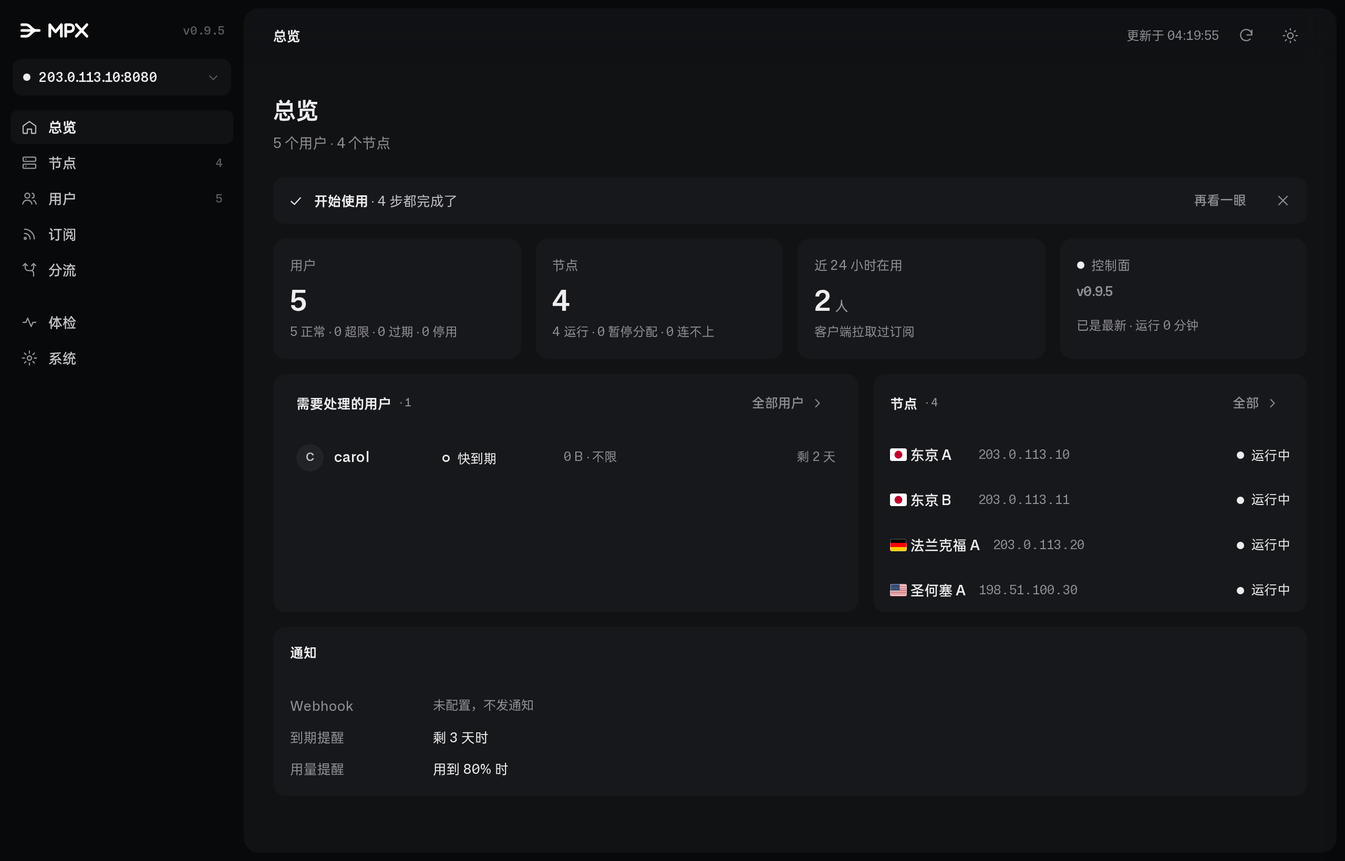
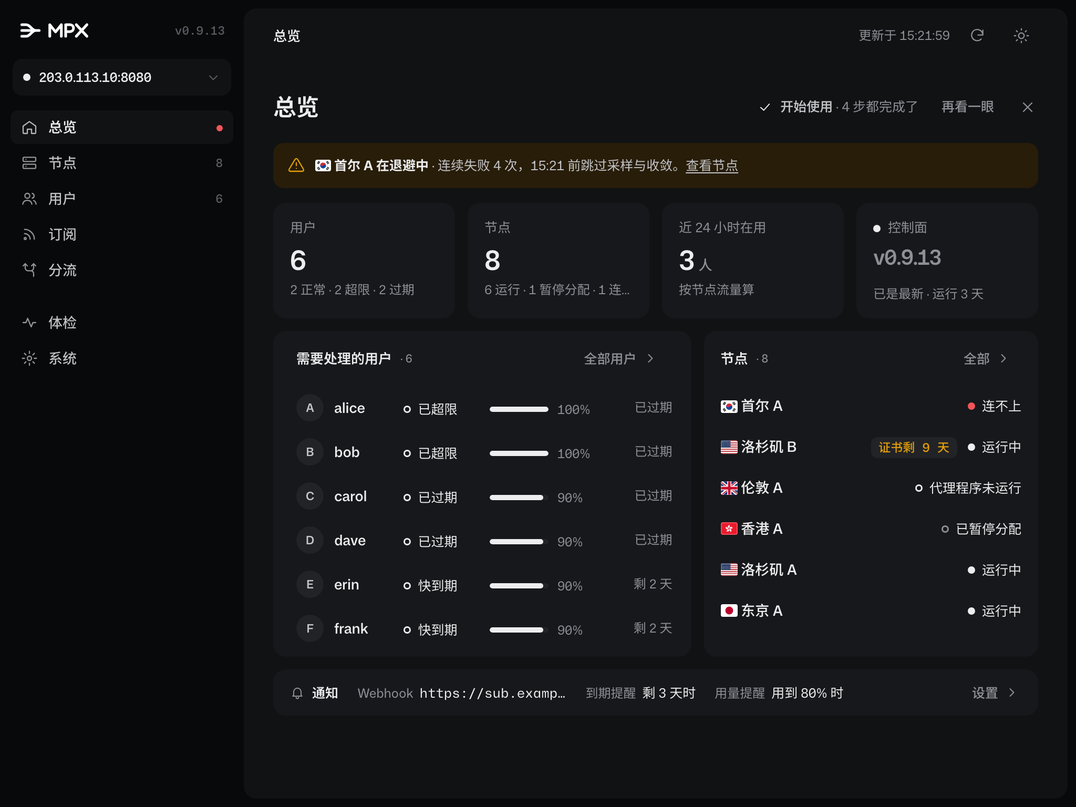
让总览适配最小桌面窗口，按平台显示滚动条并默认浅色

diff --git a/internal/ui/assets/app.js b/internal/ui/assets/app.js
@@ -500,19 +500,36 @@ function startSteps(d) {
       go: u ? H`<a class="btn sm pri" href="${userLink(u.username)}">${ic("qr")}发给 ${u.username}</a>` : "" },
   ];
 }
-function startBlock(S, done, allDone) {
-  if (allDone && clGet("hide")) return "";
+const OV_MAX = 6;
+const ovNodeRank = x => !x.status ? 3 : !x.status.reachable ? 0 : (x.status.certificates || []).some(c => c.not_after && c.days_left <= 14) ? 1 : !x.status.active ? 2 : x.draining ? 4 : 5;
+// 统计格副行只列不为 0 的类别,第一项(正常 / 运行)总是列出。
+// 总览里运行时长只到最大的单位(3 天 / 5 小时 / 12 分钟),精确值在悬停提示里。
+const ovDur = v => { v = Math.floor(+v || 0); const d = Math.floor(v / 86400), h = Math.floor(v / 3600); return d ? `${d} 天` : h ? `${h} 小时` : `${Math.floor(v / 60)} 分钟`; };
+const ovParts = parts => parts.filter(([n], i) => i === 0 || n > 0).map(([n, t]) => `${n} ${t}`).join(" · ");
+// 用量:条 + 百分比,完整数字放在悬停提示里。
+function ovUse(u) {
+  if (!u.data_limit) return H`<span class="ov-use sub">${fmtBytes(u.used_traffic)} · 不限</span>`;
+  const p = pct(u), cls = p >= 100 ? "bad" : p >= 80 ? "warn" : "";
+  return H`<span class="ov-use" title="${fmtBytes(u.used_traffic)} / ${fmtBytes(u.data_limit)}"><span class="bar"><i class="${cls}" style="width:${p.toFixed(1)}%"></i></span><span class="sub">${Math.round(p)}%</span></span>`;
+}
+function startList(S, done, allDone) {
   const cur = S.findIndex(x => !x.done);
   const item = (x, i) => H`<li class="ck ${x.done ? "done" : i === cur ? "cur" : ""}"><span class="ck-i">${x.done ? ic("check") : String(i + 1)}</span>
     <div class="ck-t"><b>${x.t}</b><span class="sub">${x.done ? x.dDone : x.dTodo}</span></div>
     <div class="ck-a">${!x.done && i === cur ? H`${x.skip ? H`<button class="btn sm" data-act="cl-skip">先用 IP</button>` : ""}${x.go}` : ""}</div></li>`;
   const optional = H`<li class="ck opt"><span class="ck-i">${ic("plus")}</span><div class="ck-t"><b>可选：让它更好用</b><span class="sub">随时都能做，不影响上面的进度</span></div>
     <div class="ck-a">${PAGES.nodes ? H`<a class="btn sm" href="#nodes">${ic("nodes")}再加一个节点</a>` : ""}${PAGES.rules ? H`<a class="btn sm" href="#rules">${ic("split")}调整分流</a>` : ""}${PAGES.system ? H`<a class="btn sm" href="#system">${ic("bell")}打开到期提醒</a>` : ""}</div></li>`;
-  const list = H`<section class="card cl" id="start"><div class="cl-h"><div><h3>开始使用</h3><p class="sub">${done === 0 ? "四步把第一条订阅发出去，大约 5 分钟" : allDone ? "4 步都完成了" : `还差 ${S.length - done} 步`}</p></div><span class="sp" style="flex:1"></span><span class="cl-n"><b>${done}</b> / ${S.length}</span></div>
+  return H`<section class="card cl" id="start"><div class="cl-h"><div><h3>开始使用</h3><p class="sub">${done === 0 ? "四步把第一条订阅发出去，大约 5 分钟" : allDone ? "4 步都完成了" : `还差 ${S.length - done} 步`}</p></div><span class="sp" style="flex:1"></span><span class="cl-n"><b>${done}</b> / ${S.length}</span></div>
     <div class="cl-bar">${S.map(x => H`<i class="${x.done ? "on" : ""}"></i>`)}</div>
     <ol class="cks">${S.map(item)}${optional}</ol></section>`;
-  if (!allDone) return H`<div class="mb">${list}</div>`;
-  return H`<div class="cl-done" id="start-done">${ic("check")}<span><b>开始使用</b> · 4 步都完成了</span><span class="sp" style="flex:1"></span><button type="button" class="btn sm ghost" data-act="cl-open">${CL_OPEN ? "收起" : "再看一眼"}</button><button type="button" class="ib" title="不再显示" aria-label="不再显示" data-act="cl-hide">${ic("x")}</button></div>${CL_OPEN ? H`<div class="mb">${list}</div>` : ""}`;
+}
+function startBlock(S, done, allDone) {
+  if (!allDone) return H`<div class="mb">${startList(S, done, allDone)}</div>`;
+  return CL_OPEN && !clGet("hide") ? H`<div class="mb">${startList(S, done, allDone)}</div>` : "";
+}
+function ovDoneChip() {
+  if (clGet("hide")) return "";
+  return H`<div class="ov-done" id="start-done">${ic("check")}<span><b>开始使用</b> · 4 步都完成了</span><button type="button" class="btn sm ghost" data-act="cl-open">${CL_OPEN ? "收起" : "再看一眼"}</button><button type="button" class="ib sm" title="不再显示" aria-label="不再显示" data-act="cl-hide">${ic("x")}</button></div>`;
 }
 let STATUS = null;
 // 最近一次读控制面成没成:侧栏控制面圆点的颜色(未知时灰)。
@@ -529,51 +546,55 @@ PAGES.overview = {
     return { status, nodes, settings, users, pulls, presence: presence?.presence || null };
   },
   render(d) {
-    const L = !d;
-    const stat = (label, v, sub, dot, tip) => H`<div class="card stat" ${tip ? raw(`title="${esc(val(tip))}"`) : ""}><div class="l">${dot ? H`<span class="dot ${dot}"></span>` : ""}${label}</div><div class="v">${L ? H`<span class="sk h26 w60"></span>` : v}</div><div class="s">${L ? H`<span class="sk w80"></span>` : sub}</div></div>`;
-    if (L) return H`<div class="ph"><div><h1>总览</h1><p><span class="sk" style="width:260px"></span></p></div></div>
-      <div class="grid g4">${stat()}${stat()}${stat()}${stat()}</div>
-      <div class="grid g2 mt"><div class="card"><div class="ch">需要处理的用户</div><table><tbody>${skRows(4, 3)}</tbody></table></div><div class="card"><div class="ch">节点</div><table><tbody>${skRows(4, 2)}</tbody></table></div></div>`;
-    const { status: s, nodes, settings, users, pulls } = d, U = users.users;
-    const S = startSteps(d), done = S.filter(x => x.done).length, allDone = done === S.length;
-    const pulled24 = (pulls || []).filter(p => Date.now() - new Date(p.last_pulled_at) < 864e5).length;
-    const n = k => U.filter(u => u.status === k).length;
-    const usagePct = settings.notify_usage_percent || 80;
-    const soon = u => u.status === "active" && u.expire_at && daysLeft(u.expire_at) <= EXPIRE_SOON_DAYS;
-    const near = u => u.status === "active" && u.data_limit && pct(u) >= usagePct;
-    const attention = [...U.filter(u => u.status === "limited"), ...U.filter(u => u.status === "expired"), ...U.filter(soon), ...U.filter(u => near(u) && !soon(u))];
-    const run = nodes.filter(x => x.status?.reachable && !x.draining).length, drain = nodes.filter(x => x.draining).length, down = nodes.filter(x => x.status && !x.status.reachable).length;
-    const tick = s.last_tick_at ? H`上一轮 ${hms(new Date(s.last_tick_at))}，用时 ${fmtSecs(s.last_tick_seconds)}` : "还没跑过一轮";
-    const upd = s.update || {}, behind = upd.behind > 0 && !isDevVer(s.version);
-    const certWarn = x => (x.status?.certificates || []).filter(c => c.not_after && c.days_left <= 14).sort((a, b) => a.days_left - b.days_left)[0];
-    const partial = users.total > U.length;
-    // 标题下一句按稿子:还没走完「开始使用」时是欢迎语,走完了是人数和节点数。
-    return H`<div class="ph"><div><h1>总览</h1><p>${allDone ? `${users.total} 个用户 · ${nodes.length} 个节点` : "欢迎用 MPX。跟着下面几步，把第一条订阅发出去。"}</p></div></div>
-    ${startBlock(S, done, allDone)}
-    ${s.backoffs.length === 1 ? s.backoffs.map(b => H`<div class="callout mb">${ic("warn", "ico-warn")}<div><b>${labelOfName(b.node_name)} 在退避中</b> · 连续失败 ${b.failures} 次，${hm(new Date(b.skip_until))} 前跳过采样与收敛。${PAGES.nodes ? H`<a href="#nodes/${b.node_id}" class="u-link">查看节点</a>` : ""}</div></div>`)
-      : s.backoffs.length ? H`<div class="callout mb">${ic("warn", "ico-warn")}<div><b>${s.backoffs.length} 个节点在退避中</b> · ${s.backoffs.map(b => labelOfName(b.node_name)).join("、")}：连续失败，暂时跳过采样与收敛。</div></div>` : ""}
-    <div class="grid g4">
-      ${stat("用户", users.total, H`${n("active")} 正常 · ${n("limited")} 超限 · ${n("expired")} 过期 · ${n("disabled")} 停用${partial ? H`<span class="stale">· 只统计了前 ${U.length} 个</span>` : ""}`)}
-      ${stat("节点", s.counts.nodes, `${run} 运行 · ${drain} 暂停分配 · ${down} 连不上`)}
-      ${d.presence ? stat("近 24 小时在用", H`${d.presence.active_24h ?? 0}<small>人</small>`, "按节点流量算")
-        : pulls ? stat("近 24 小时拉过订阅", H`${pulled24}<small>人</small>`, "客户端拉取过订阅") : stat("连接方式", H`${s.counts.inbounds}<small>/ ${s.counts.hosts}</small>`, `${s.counts.inbounds} 条连接 · ${s.counts.hosts} 个对外地址`)}
-      ${stat("控制面", H`<span class="lead ell" title="${s.version}">${shortVer(s.version) || "未知版本"}</span>`, behind ? H`<span class="tag lab">有新版本 ${upd.latest}</span> · 运行 ${fmtDur(s.uptime_seconds)}` : `${isDevVer(s.version) ? "开发版，不比较版本" : upd.latest ? "已是最新" : "没查到新版本信息"} · 运行 ${fmtDur(s.uptime_seconds)}`, "ink", tick)}
-    </div>
-    <div class="grid g2 mt">
-      <div class="card"><div class="ch">需要处理的用户<small>${attention.length ? `· ${attention.length}` : ""}</small><span class="sp"></span>${PAGES.users ? H`<a class="btn ghost sm" href="#users">全部用户 ${ic("arrow")}</a>` : ""}</div>
-      ${attention.length ? H`<div class="tw"><table><tbody>${attention.slice(0, 6).map(u => H`<tr data-href="${PAGES.users ? "#users/" + encodeURIComponent(u.username) : ""}"><td><div class="u">${avatar(u.username)}<b class="bold">${u.username}</b></div></td>
-        <td>${u.status !== "active" ? userSt(u.status) : soon(u) ? stBadge("warn", "快到期") : stBadge("warn", "快用完")}</td><td class="hide-m">${usageBar(u)}</td>
-        <td class="num sub">${u.expire_at ? (daysLeft(u.expire_at) < 0 ? "已过期" : `剩 ${daysLeft(u.expire_at)} 天`) : "—"}</td></tr>`)}</tbody></table></div>`
-        : !users.total ? emptyBox("users", "还没有用户", "加一个用户，他就有自己的订阅链接。")
-        : emptyBox("check", "没有要处理的用户", `没有超限、过期、${EXPIRE_SOON_DAYS} 天内到期或用量过 ${usagePct}% 的用户。`)}</div>
-      <div class="card"><div class="ch">节点<small>${nodes.length ? `· ${nodes.length}` : ""}</small><span class="sp"></span>${PAGES.nodes ? H`<a class="btn ghost sm" href="#nodes">全部 ${ic("arrow")}</a>` : ""}</div>
-      ${nodes.length ? nodes.map(x => { const c = certWarn(x); return H`<a class="row" ${PAGES.nodes ? raw(`href="#nodes/${x.id}"`) : ""}><b class="bold" style="min-width:72px">${nodeLabel(x)}</b><span class="sub mono hide-m">${x.address}</span><span class="sp"></span>${c ? H`<span class="tag ${c.days_left < 0 ? "c-bad" : "c-warn"}">证书${c.days_left < 0 ? "已过期" : `剩 ${c.days_left} 天`}</span>` : ""}${nodeSt(x)}</a>`; })
-        : emptyBox("nodes", "还没有节点", "登记一台能从控制面 SSH 上去的服务器。节点上不装任何 mpx 组件。到「节点」页点「添加节点」开始。")}</div>
-    </div>
-    <div class="card mt"><div class="ch">通知</div>
-      <dl class="kv"><dt>Webhook</dt><dd class="mono">${settings.webhook_url || H`<span class="sub">未配置，不发通知</span>`}</dd>
-      <dt>到期提醒</dt><dd>${settings.notify_days_left ? `剩 ${settings.notify_days_left} 天时` : "关闭"}</dd>
-      <dt>用量提醒</dt><dd>${settings.notify_usage_percent ? `用到 ${settings.notify_usage_percent}% 时` : "关闭"}</dd></dl></div>`;
+  const L = !d;
+  const stat = (label, v, sub, dot, tip) => H`<div class="card stat" ${tip ? raw(`title="${esc(val(tip))}"`) : ""}><div class="l">${dot ? H`<span class="dot ${dot}"></span>` : ""}${label}</div><div class="v">${L ? H`<span class="sk h26 w60"></span>` : v}</div><div class="s" ${!L && typeof sub === "string" ? raw(`title="${esc(sub)}"`) : ""}>${L ? H`<span class="sk w80"></span>` : sub}</div></div>`;
+  if (L) return H`<div class="ov"><div class="ph"><h1>总览</h1></div>
+    <div class="grid g4">${stat()}${stat()}${stat()}${stat()}</div>
+    <div class="grid g2 ov-main"><div class="card"><div class="ch">需要处理的用户</div><table><tbody>${skRows(4, 3)}</tbody></table></div><div class="card"><div class="ch">节点</div><table><tbody>${skRows(4, 2)}</tbody></table></div></div></div>`;
+  const { status: s, nodes, settings, users, pulls } = d, U = users.users;
+  const S = startSteps(d), done = S.filter(x => x.done).length, allDone = done === S.length;
+  const pulled24 = (pulls || []).filter(p => Date.now() - new Date(p.last_pulled_at) < 864e5).length;
+  const n = k => U.filter(u => u.status === k).length;
+  const usagePct = settings.notify_usage_percent || 80;
+  const soon = u => u.status === "active" && u.expire_at && daysLeft(u.expire_at) <= EXPIRE_SOON_DAYS;
+  const near = u => u.status === "active" && u.data_limit && pct(u) >= usagePct;
+  const attention = [...U.filter(u => u.status === "limited"), ...U.filter(u => u.status === "expired"), ...U.filter(soon), ...U.filter(u => near(u) && !soon(u))];
+  const run = nodes.filter(x => x.status?.reachable && !x.draining).length, drain = nodes.filter(x => x.draining).length, down = nodes.filter(x => x.status && !x.status.reachable).length;
+  const tick = s.last_tick_at ? H`上一轮 ${hms(new Date(s.last_tick_at))}，用时 ${fmtSecs(s.last_tick_seconds)}` : "还没跑过一轮";
+  const upd = s.update || {}, behind = upd.behind > 0 && !isDevVer(s.version);
+  const certWarn = x => (x.status?.certificates || []).filter(c => c.not_after && c.days_left <= 14).sort((a, b) => a.days_left - b.days_left)[0];
+  const partial = users.total > U.length;
+  const shown = nodes.map((x, i) => [x, i]).sort((a, b) => ovNodeRank(a[0]) - ovNodeRank(b[0]) || a[1] - b[1]).slice(0, OV_MAX).map(a => a[0]);
+  const hook = settings.webhook_url;
+  const backoffTitle = s.backoffs.map(b => `${labelOfName(b.node_name)}：连续失败 ${b.failures} 次，${hm(new Date(b.skip_until))} 前跳过采样与收敛。`).join(" ");
+  return H`<div class="ov"><div class="ph"><div><h1>总览</h1>${allDone ? "" : H`<p>欢迎用 MPX。跟着下面几步，把第一条订阅发出去。</p>`}</div><span class="sp"></span>${allDone ? ovDoneChip() : ""}</div>
+  ${startBlock(S, done, allDone)}
+  ${s.backoffs.length === 1 ? s.backoffs.map(b => H`<div class="callout mb" title="${backoffTitle}">${ic("warn", "ico-warn")}<div><b>${labelOfName(b.node_name)} 在退避中</b> · 连续失败 ${b.failures} 次，${hm(new Date(b.skip_until))} 前跳过采样与收敛。${PAGES.nodes ? H`<a href="#nodes/${b.node_id}" class="u-link">查看节点</a>` : ""}</div></div>`)
+    : s.backoffs.length ? H`<div class="callout mb" title="${backoffTitle}">${ic("warn", "ico-warn")}<div><b>${s.backoffs.length} 个节点在退避中</b> · ${s.backoffs.map(b => labelOfName(b.node_name)).join("、")}：连续失败，暂时跳过采样与收敛。</div></div>` : ""}
+  <div class="grid g4">
+    ${stat("用户", users.total, H`${ovParts([[n("active"), "正常"], [n("limited"), "超限"], [n("expired"), "过期"], [n("disabled"), "停用"]])}${partial ? H`<span class="stale">· 只统计了前 ${U.length} 个</span>` : ""}`)}
+    ${stat("节点", s.counts.nodes, ovParts([[run, "运行"], [drain, "暂停分配"], [down, "连不上"]]))}
+    ${d.presence ? stat("近 24 小时在用", H`${d.presence.active_24h ?? 0}<small>人</small>`, "按节点流量算")
+      : pulls ? stat("近 24 小时拉过订阅", H`${pulled24}<small>人</small>`, "客户端拉取过订阅") : stat("连接方式", H`${s.counts.inbounds}<small>/ ${s.counts.hosts}</small>`, `${s.counts.inbounds} 条连接 · ${s.counts.hosts} 个对外地址`)}
+    ${stat("控制面", H`<span class="lead ell" title="${s.version}">${shortVer(s.version) || "未知版本"}</span>`, behind ? H`<span class="tag lab">有新版本 ${upd.latest}</span> · 运行 ${ovDur(s.uptime_seconds)}` : `${isDevVer(s.version) ? "开发版，不比较版本" : upd.latest ? "已是最新" : "没查到新版本信息"} · 运行 ${ovDur(s.uptime_seconds)}`, "ink", H`${tick} · 已运行 ${fmtDur(s.uptime_seconds)}`)}
+  </div>
+  <div class="grid g2 ov-main">
+    <div class="card"><div class="ch">需要处理的用户<small>${attention.length ? `· ${attention.length}` : ""}</small><span class="sp"></span>${PAGES.users ? H`<a class="btn ghost sm" href="#users">全部用户 ${ic("arrow")}</a>` : ""}</div>
+    ${attention.length ? H`<table class="ov-t"><tbody>${attention.slice(0, OV_MAX).map(u => H`<tr data-href="${PAGES.users ? "#users/" + encodeURIComponent(u.username) : ""}"><td><div class="u">${avatar(u.username)}<b class="bold ell">${u.username}</b></div></td>
+      <td>${u.status !== "active" ? userSt(u.status) : soon(u) ? stBadge("warn", "快到期") : stBadge("warn", "快用完")}</td><td>${ovUse(u)}</td>
+      <td class="num sub">${u.expire_at ? (daysLeft(u.expire_at) < 0 ? "已过期" : `剩 ${daysLeft(u.expire_at)} 天`) : "—"}</td></tr>`)}</tbody></table>`
+      : !users.total ? emptyBox("users", "还没有用户", "加一个用户，他就有自己的订阅链接。")
+      : emptyBox("check", "没有要处理的用户", `没有超限、过期、${EXPIRE_SOON_DAYS} 天内到期或用量过 ${usagePct}% 的用户。`)}</div>
+    <div class="card"><div class="ch">节点<small>${nodes.length ? `· ${nodes.length}` : ""}</small><span class="sp"></span>${PAGES.nodes ? H`<a class="btn ghost sm" href="#nodes">全部 ${ic("arrow")}</a>` : ""}</div>
+    ${nodes.length ? shown.map(x => { const c = certWarn(x); return H`<a class="row ov-n" ${PAGES.nodes ? raw(`href="#nodes/${x.id}"`) : ""}><b class="bold ell">${nodeLabel(x)}</b><span class="sub mono ov-addr">${x.address}</span><span class="sp"></span>${c ? H`<span class="tag ${c.days_left < 0 ? "c-bad" : "c-warn"}">证书${c.days_left < 0 ? "已过期" : `剩 ${c.days_left} 天`}</span>` : ""}${nodeSt(x)}</a>`; })
+      : emptyBox("nodes", "还没有节点", "登记一台能从控制面 SSH 上去的服务器。节点上不装任何 mpx 组件。到「节点」页点「添加节点」开始。")}</div>
+  </div>
+  <div class="ov-note" id="ov-notify"><span class="ov-note-h">${ic("bell")}通知</span>
+    <span class="ov-kv"><span class="sub">Webhook</span>${hook ? H`<span class="mono ell" title="${hook}">${hook}</span>` : H`<span class="sub">未配置，不发通知</span>`}</span>
+    <span class="ov-kv"><span class="sub">到期提醒</span>${settings.notify_days_left ? `剩 ${settings.notify_days_left} 天时` : "关闭"}</span>
+    <span class="ov-kv"><span class="sub">用量提醒</span>${settings.notify_usage_percent ? `用到 ${settings.notify_usage_percent}% 时` : "关闭"}</span>
+    <span class="sp"></span>${PAGES.system ? H`<a class="btn ghost sm" href="#system">设置 ${ic("arrow")}</a>` : ""}</div></div>`;
+
   },
 };
 
@@ -839,10 +860,10 @@ async function reportTheme(theme) {
     await fetch("/local/app/theme", { method: "POST", credentials: "same-origin", headers: { "Content-Type": "application/json" }, body: JSON.stringify({ theme }) });
   } catch {}
 }
-// 页面加载时报一次:存过 light/dark 就报那个,没存过表示跟随系统。
+// 页面加载时报一次：存过 light/dark 就报那个，没存过使用浅色。
 function savedTheme() {
   try { const t = localStorage.getItem("mpx-theme"); if (t === "light" || t === "dark") return t; } catch {}
-  return "system";
+  return "light";
 }
 
 const ACTS = {

diff --git a/internal/ui/assets/boot.js b/internal/ui/assets/boot.js
@@ -2,6 +2,12 @@
 (() => {
   let t = null;
   try { t = localStorage.getItem("mpx-theme"); } catch {}
-  if (t !== "light" && t !== "dark") t = matchMedia("(prefers-color-scheme: dark)").matches ? "dark" : "light";
+  if (t !== "light" && t !== "dark") t = "light";
   document.documentElement.dataset.theme = t;
+})();
+
+// Mac 使用系统滚动条，其他平台使用细滚动条。
+(() => {
+  const p = navigator.userAgentData?.platform || navigator.platform || "";
+  if (/^Mac/i.test(p)) document.documentElement.classList.add("os-mac");
 })();

diff --git a/docs/atlas/operator-entry.md b/docs/atlas/operator-entry.md
@@ -2,7 +2,7 @@
 kind: part
 parent: README.md
 code: [internal/cli/, internal/ui/, internal/pin/, cmd/mpx/]
-verified: 2026-10-21 @ faefb3f
+verified: 2026-10-21 @ 9281717
 ---
 # 本机入口：CLI、mpx ui、设备接入
 
@@ -27,6 +27,7 @@ flowchart LR
 1. CLI 每条命令都能用 `curl` 等价做出来，不缓存数据，每次都问控制面（[internal/cli](../../internal/cli/)）。配置档写在 `~/.config/mpx`，能装多个控制面，写前原子替换（decisions 第 31 条）。
 2. `mpx ui` 的页面是内嵌的原生 JS（[internal/ui/assets](../../internal/ui/assets/)）。转发层只放行白名单里的接口（[internal/ui/ui.go](../../internal/ui/ui.go) 的 allow 规则）；需要在客户端机器上动手的事走 `/local/*` 本地接口。为什么是本机转发、怎么防跨站和 DNS rebinding，见 [管理 UI 方案](../internal/ui-rfc.md)。正常模式下页面也能接入另一套控制面（`/local/profiles/connect*`：同一套取指纹→核对→设备密码的手续，存成指名的新配置档再切过去，不覆盖已有档）；`/ui/meta` 带当前档的证书指纹（设置页「当前控制面」显示、配置档下拉摆前 16 位用）。
    连接方式只在节点详情的「连接方式」卡片管理；旧地址 `#inbounds`（含子路径）跳到节点列表。详情头部有未应用改动、配置不一致或从未应用时才出现「应用到节点」主按钮，其余时候它和刷新状态、暂停 / 恢复分配、编辑一起收在「⋯」菜单。体检页行内的「应用到<节点>」不直接下发：它只跳到节点详情并留一个 10 秒有效的标记，由详情页弹确认框（用户确认才下发）；节点连不上时详情头部的「应用到节点」带 `aria-disabled`，点击由页面统一拦下（`app.js` 的事件分发检查 `aria-disabled`），只提示先刷新状态。
+   总览已完成的开始清单收进页头，节点优先展示最需注意的六个，通知在页底横条中查看并跳到系统修改。首次使用默认为浅色，保存过的手动主题保持不变；Mac 使用系统滚动条，其他平台只在滚动或悬停滑块时显示细条。
    订阅页是一页四段：订阅链接、客户端显示、客户端格式、高级（默认折叠，展开才取正文，会话内记住状态）。字段和识别规则先改草稿，统一由保存条通过 `modifySettings` 先读后写；放弃后的撤销只恢复当时改过的键，不覆盖后台刷新收到的其他设置。离页和切换控制面共用草稿确认，保存成功或选择不保存后才继续；对话框约束 Tab 焦点并在关闭后还原。底稿仍由原抽屉单独保存。预览默认最近拉过订阅的用户，可切换；无用户时标「示例」。链接开头只由控制面在写入新值时校验，旧值未改可保存其他字段；预览保留原始链接，改链接开头后才用最后一段令牌拼接并去掉尾斜杠。规则按 Go 正则保存，浏览器无法编译时只提示无法预览、不拦截完成，空规则仍拦截；改规则后保留键盘焦点。`#sub/clients` 滚到 `#sec-clients`，`#sub/templates` 展开并滚到 `#sec-adv`，旧设置路由继续映射。
 3. 设备接入：控制面自签证书，CLI 记指纹（像 SSH 的 known_hosts）；`mpx connect` 用设备密码换一个设备 token，每台设备各自可吊销（[internal/pin](../../internal/pin/)，[设备接入方案](../internal/device-connect-rfc.md)）。
 4. 桌面程序（v0.9.0 起）用 MyGo 把 `mpx ui` 装进窗口，不扩权：桌面构建无参数启动就开窗，未接入时窗口里做首次安装或接入已有控制面，一键更新的本机一层升级桌面程序自己（[internal/cli/app.go](../../internal/cli/app.go)，[桌面程序方案](../internal/desktop-rfc.md)）。

diff --git a/docs/reference/interface.md b/docs/reference/interface.md
@@ -15,7 +15,7 @@ MPX 桌面窗口左侧是导航，从上到下就是使用顺序：**总览**、
 
 | 页面 | 能做的事 | 指南 |
 | :--- | :--- | :--- |
-| 总览 | 刚装好时是「开始使用」清单（节点在线、订阅地址、第一个用户、把订阅发给他），4 步走完收成一行；用户、节点、近 24 小时在用的统计；需要处理的用户；节点状态；通知设置。有节点连不上时，侧栏的 **总览** 后面亮一个红点 | — |
+| 总览 | 刚装好时是「开始使用」清单（节点在线、订阅地址、第一个用户、把订阅发给他），4 步走完收成一行；用户、节点、近 24 小时在用的统计；需要处理的用户；节点状态（优先列出最需要注意的 6 个）；通知设置一览（在 **系统** 里改）。有节点连不上时，侧栏的 **总览** 后面亮一个红点 | — |
 | 节点 | 添加节点向导；节点详情里管 **连接方式**（添加连接、再加一个对外地址、编辑），以及刷新状态、应用到节点、暂停分配、体检、安装代理程序、在线用户、配置预览、删除；批量识别显示名 | [添加节点](/guides/add-nodes) |
 | 用户 | **用户** 页签：添加、编辑、续期 30 天、清零本期用量、停用 / 启用、换一条新链接、删除；按状态和套餐筛选；用户详情最上面是「发给他」（二维码、复制订阅链接、其他格式、客户端拉取状态）。**套餐** 页签：新建、编辑、删除套餐，查看每个套餐的节点和人数 | [添加用户并分发订阅](/guides/add-users) · [用套餐分配节点](/guides/plans) |
 | 订阅 | 一页三段：**地址与显示**（订阅地址、订阅名、刷新间隔、支持链接和用户预览）；**客户端识别**（按客户端决定发哪种格式）；默认折叠的 **高级 · 订阅底稿**（Clash Meta / sing-box / Xray 的底稿）。字段和识别规则在底部统一保存 | [订阅设置](/reference/settings) |

diff --git a/CHANGELOG.md b/CHANGELOG.md
@@ -13,7 +13,9 @@
 
 ### 改进
 - 订阅页改为四段平级布局，字段与预览联动高亮，辅助说明收进提示，高级底稿默认折叠。
-- Mac 桌面内容区改用细滚动条：空闲时隐藏，悬停或滚动时显示，亮暗主题均保持透明轨道，显隐不挤动内容。
+- 总览收紧布局，已完成的「开始使用」收进页头，优先列出最需注意的 6 个节点，通知改为页底横条。
+- Mac 滚动条交给系统；其他平台内容区保持 8px 透明轨道，仅在滚动或悬停滑块时显色。
+- 首次打开默认使用浅色主题，手动选择过的主题保持不变。
 - 订阅内容变更：新安装或重新生成策略后，Clash Meta 和 sing-box 默认为「手动切换」，「自动选择」仍可主动选。Clash Meta 默认模板的 DNS 改经「手动切换」，内置 sing-box 模板的 DNS 跟随实际兜底选择器。已有规则与兜底去向不改写，使用默认模板的用户重新拉取订阅后更新 DNS。
 - 订阅内容变更：Clash Meta（mihomo）的国外域名改为经代理用 Cloudflare / Google DoH 解析，国内域名仍直连国内 DoH，节点域名改用国内 DoH；删除一条无效的占位解析规则。重新拉取订阅后生效。
 - 管理接口限流放宽到每秒 10 个、突发 60 个（桌面端和 mpx ui 的请求都从一个地址进来，一次页面加载就要十几个）。
